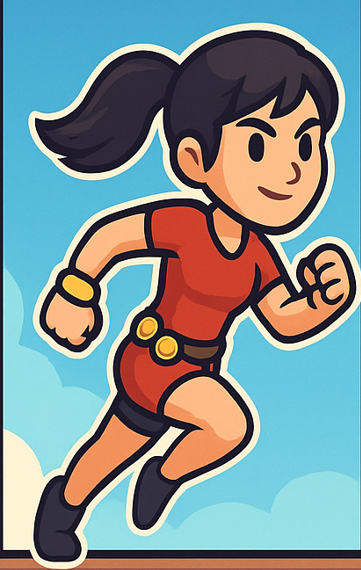
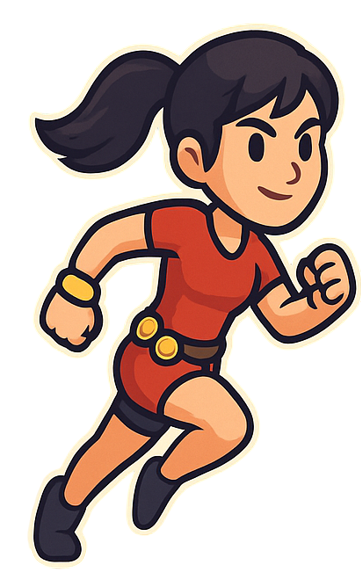
Change logic game и немного поменяла координаты

diff --git a/core/src/main/java/io/github/finaltriswitch/screens/PlayScreen.java b/core/src/main/java/io/github/finaltriswitch/screens/PlayScreen.java
@@ -67,8 +67,8 @@ public class PlayScreen extends ScreenAdapter {
         if (active != null) {
             if (Gdx.input.isKeyPressed(Keys.LEFT)) active.move(-speed, 0);
             if (Gdx.input.isKeyPressed(Keys.RIGHT)) active.move(speed, 0);
-            if (Gdx.input.isKeyPressed(Keys.SPACE) && active instanceof MissJ) {
-                ((MissJ) active).jump();
+            if (Gdx.input.isKeyPressed(Keys.SPACE)) {
+                active.jump();
             }
             if (Gdx.input.isKeyPressed(Keys.M) && active instanceof MissK && currentLevel == 2 && level2 != null) {
                 float newX = level2.getBlockX() + (Gdx.input.isKeyPressed(Keys.LEFT) ? -speed : Gdx.input.isKeyPressed(Keys.RIGHT) ? speed : 0);
@@ -82,6 +82,7 @@ public class PlayScreen extends ScreenAdapter {
             }
         }
     }
+
 
     private void checkCollisions() {
         Character active = (gameLogic != null) ? gameLogic.getActiveCharacter() : null;
@@ -105,7 +106,7 @@ public class PlayScreen extends ScreenAdapter {
 
     private void checkWinCondition() {
         Character active = (gameLogic != null) ? gameLogic.getActiveCharacter() : null;
-        if (active != null && active.getX() > 1400) {
+        if (active != null && active.getX() > 1000) {
             if (gameLogic != null) {
                 gameLogic.setReachedGoal(active);
                 if (currentLevel == 1 && gameLogic.allReachedGoal()) {
@@ -129,9 +130,9 @@ public class PlayScreen extends ScreenAdapter {
 
     private void resetPositions() {
         if (gameLogic != null) {
-            gameLogic.getMissJ().setPosition(200, 200);
-            gameLogic.getMissK().setPosition(300, 200);
-            gameLogic.getMrB().setPosition(400, 200);
+            gameLogic.getMissJ().setPosition(20, 20);
+            gameLogic.getMissK().setPosition(30, 20);
+            gameLogic.getMrB().setPosition(40, 20);
             gameLogic.switchToMissJ();
         }
     }

diff --git a/core/src/main/java/io/github/finaltriswitch/characters/MissK.java b/core/src/main/java/io/github/finaltriswitch/characters/MissK.java
@@ -1,7 +1,34 @@
 package io.github.finaltriswitch.characters;
 
+import com.badlogic.gdx.Gdx;
+
 public class MissK extends Character {
+    private float velocityY;
+    private boolean isJumping;
+
     public MissK(float x, float y) {
         super(x, y, "assets/missk.png");
+        velocityY = 0;
+        isJumping = false;
+    }
+
+    public void jump() {
+        if (!isJumping) {
+            velocityY = 600; // Увеличили высоту прыжка в 2 раза
+            isJumping = true;
+        }
+    }
+
+    @Override
+    public void act(float delta) {
+        if (isJumping) {
+            y += velocityY * delta;
+            velocityY -= 1300 * delta; // Увеличили гравитацию в 2 раза
+            if (y <= 200) { // Увеличили уровень земли в 2 раза
+                y = 200;
+                velocityY = 0;
+                isJumping = false;
+            }
+        }
     }
 }

diff --git a/core/src/main/java/io/github/finaltriswitch/characters/MrB.java b/core/src/main/java/io/github/finaltriswitch/characters/MrB.java
@@ -1,7 +1,34 @@
 package io.github.finaltriswitch.characters;
 
+import com.badlogic.gdx.Gdx;
+
 public class MrB extends Character {
+    private float velocityY;
+    private boolean isJumping;
+
     public MrB(float x, float y) {
         super(x, y, "assets/mrb.png");
+        velocityY = 0;
+        isJumping = false;
+    }
+
+    public void jump() {
+        if (!isJumping) {
+            velocityY = 600; // Увеличили высоту прыжка в 2 раза
+            isJumping = true;
+        }
+    }
+
+    @Override
+    public void act(float delta) {
+        if (isJumping) {
+            y += velocityY * delta;
+            velocityY -= 1300 * delta; // Увеличили гравитацию в 2 раза
+            if (y <= 200) { // Увеличили уровень земли в 2 раза
+                y = 200;
+                velocityY = 0;
+                isJumping = false;
+            }
+        }
     }
 }

diff --git a/core/src/main/java/io/github/finaltriswitch/screens/MenuScreen.java b/core/src/main/java/io/github/finaltriswitch/screens/MenuScreen.java
@@ -36,7 +36,7 @@ public class MenuScreen extends ScreenAdapter {
         if (game != null && game.getBatch() != null) {
             game.getBatch().begin();
             if (menuTexture != null) {
-                game.getBatch().draw(menuTexture, 0, 0, 1600, 1200); // Новый размер меню
+                game.getBatch().draw(menuTexture, 0, 0, 700, 500); // Новый размер меню
             } else {
                 Gdx.app.log("MenuScreen", "menuTexture is null, displaying fallback");
                 game.getBatch().draw(new Texture("badlogic.png"), 0, 0, 1600, 1200);

diff --git a/core/src/main/java/io/github/finaltriswitch/characters/Character.java b/core/src/main/java/io/github/finaltriswitch/characters/Character.java
@@ -15,13 +15,15 @@ public abstract class Character {
     }
 
     public void act(float delta) {
+
     }
 
     public void draw(SpriteBatch batch, float alpha) {
         if (texture != null) {
-            batch.draw(texture, x, y);
+            batch.draw(texture, x, y, texture.getWidth() * 0.4f, texture.getHeight() * 0.4f);
         }
     }
+
 
     public void move(float dx, float dy) {
         x += dx;
@@ -43,5 +45,8 @@ public abstract class Character {
 
     public void dispose() {
         if (texture != null) texture.dispose();
+    }
+
+    public void jump() {
     }
 }

diff --git a/core/src/main/java/io/github/finaltriswitch/logic/GameLogic.java b/core/src/main/java/io/github/finaltriswitch/logic/GameLogic.java
@@ -16,9 +16,9 @@ public class GameLogic {
     private boolean mrBReachedGoal;
 
     public GameLogic() {
-        missJ = new MissJ(200, 200); // Увеличили координаты в 2 раза
-        missK = new MissK(300, 200);
-        mrB = new MrB(400, 200);
+        missJ = new MissJ(400, 600); // Увеличили координаты в 2 раза
+        missK = new MissK(0, 150);
+        mrB = new MrB(700, 450);
         activeCharacter = missJ;
         missJReachedGoal = false;
         missKReachedGoal = false;

diff --git a/core/src/main/java/io/github/finaltriswitch/characters/MissJ.java b/core/src/main/java/io/github/finaltriswitch/characters/MissJ.java
@@ -23,7 +23,7 @@ public class MissJ extends Character {
     public void act(float delta) {
         if (isJumping) {
             y += velocityY * delta;
-            velocityY -= 1200 * delta; // Увеличили гравитацию в 2 раза
+            velocityY -= 1300 * delta; // Увеличили гравитацию в 2 раза
             if (y <= 200) { // Увеличили уровень земли в 2 раза
                 y = 200;
                 velocityY = 0;

diff --git a/core/src/main/java/io/github/finaltriswitch/levels/Level2.java b/core/src/main/java/io/github/finaltriswitch/levels/Level2.java
@@ -12,8 +12,8 @@ public class Level2 {
     public Level2() {
         levelTexture = new Texture("assets/level2.png");
         blockTexture = new Texture("assets/metal_block.png");
-        blockX = 800; // Увеличили координаты в 2 раза
-        blockY = 600;
+        blockX = 300; // Увеличили координаты в 2 раза
+        blockY = 500;
     }
 
     public void render(SpriteBatch batch) {
